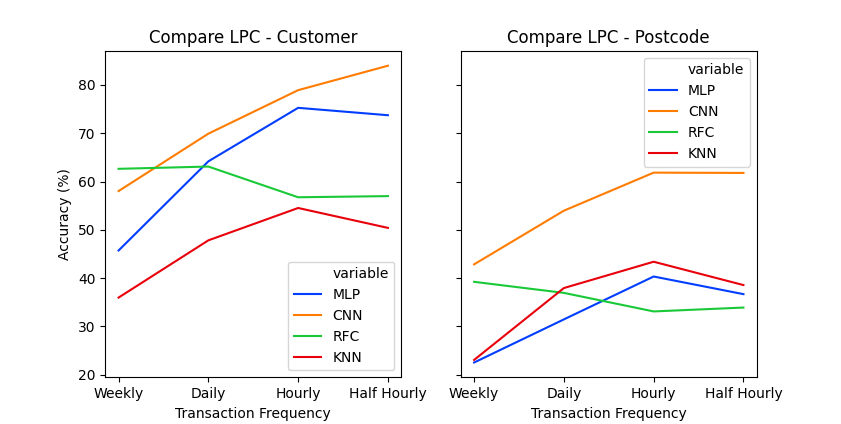
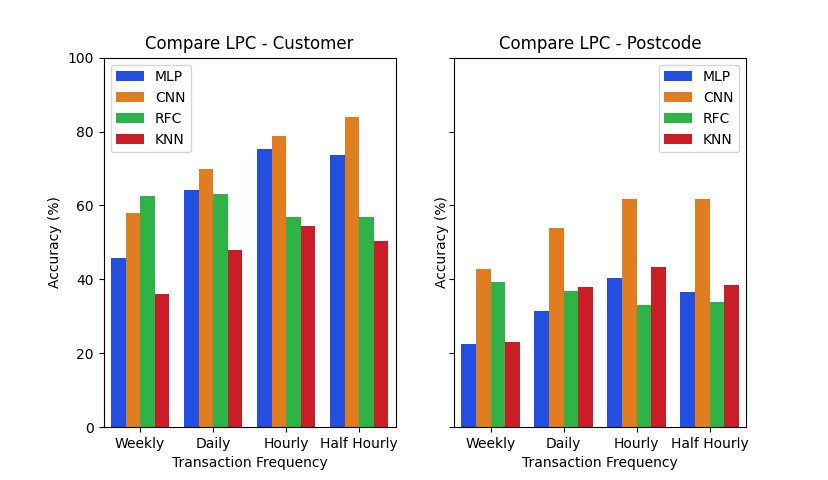
Update graphs to bar charts

Changed region(s): [[0.0604, 0.0613, 0.936, 1.0], [0.5435, 0.1226, 0.5737, 0.1533]]

diff --git a/Code/graphs.py b/Code/graphs.py
@@ -160,15 +160,15 @@ def results():
     # MLP RESULTS
     plot_mlp_cust = pd.DataFrame({
         'cats': x_cats,
-        'MLP ledger/customer': mlp_cust_lpc,
-        'MLP ledger/postcode': mlp_cust_lpp,
-        'MLP one ledger': mlp_cust_aol
+        'MLP LPC': mlp_cust_lpc,
+        'MLP LPP': mlp_cust_lpp,
+        'MLP AOL': mlp_cust_aol
     })
     plot_mlp_post = pd.DataFrame({
         'cats': x_cats,
-        'MLP ledger/customer': mlp_post_lpc,
-        'MLP ledger/postcode': mlp_post_lpp,
-        'MLP one ledger': mlp_post_aol
+        'MLP LPC': mlp_post_lpc,
+        'MLP LPP': mlp_post_lpp,
+        'MLP AOL': mlp_post_aol
     })
     grapher(["Multilayer Percecptron - Customer",
              "Multilayer Percecptron - Postcode"],
@@ -177,15 +177,15 @@ def results():
     # CNN RESULTS
     plot_cnn_cust = pd.DataFrame({
         'cats': x_cats,
-        'CNN ledger/customer': cnn_cust_lpc,
-        'CNN ledger/postcode': cnn_cust_lpp,
-        'CNN one ledger': cnn_cust_aol
+        'CNN LPC': cnn_cust_lpc,
+        'CNN LPP': cnn_cust_lpp,
+        'CNN AOL': cnn_cust_aol
     })
     plot_cnn_post = pd.DataFrame({
         'cats': x_cats,
-        'CNN ledger/customer': cnn_post_lpc,
-        'CNN ledger/postcode': cnn_post_lpp,
-        'CNN one ledger': cnn_post_aol
+        'CNN LPC': cnn_post_lpc,
+        'CNN LPP': cnn_post_lpp,
+        'CNN AOL': cnn_post_aol
     })
     grapher(["Convolutional Neural Network - Customer",
              "Convolutional Neural Network - Postcode"],
@@ -194,15 +194,15 @@ def results():
     # RFC RESULTS
     plot_rfc_cust = pd.DataFrame({
         'cats': x_cats,
-        'RFC ledger/customer': rfc_cust_lpc,
-        'RFC ledger/postcode': rfc_cust_lpp,
-        'RFC one ledger': rfc_cust_aol
+        'RFC LPC': rfc_cust_lpc,
+        'RFC LPP': rfc_cust_lpp,
+        'RFC AOL': rfc_cust_aol
     })
     plot_rfc_post = pd.DataFrame({
         'cats': x_cats,
-        'RFC ledger/customer': rfc_post_lpc,
-        'RFC ledger/postcode': rfc_post_lpp,
-        'RFC one ledger': rfc_post_aol
+        'RFC LPC': rfc_post_lpc,
+        'RFC LPP': rfc_post_lpp,
+        'RFC AOL': rfc_post_aol
     })
     grapher(["Random Forest Classifier - Customer",
             "Random Forest Classifier - Postcode"],
@@ -211,15 +211,15 @@ def results():
     # KNN RESULTS
     plot_knn_cust = pd.DataFrame({
         'cats': x_cats,
-        'KNN ledger/customer': knn_cust_lpc,
-        'KNN ledger/postcode': knn_cust_lpp,
-        'KNN one ledger': knn_cust_aol
+        'KNN LPC': knn_cust_lpc,
+        'KNN LPP': knn_cust_lpp,
+        'KNN AOL': knn_cust_aol
     })
     plot_knn_post = pd.DataFrame({
         'cats': x_cats,
-        'KNN ledger/customer': knn_post_lpc,
-        'KNN ledger/postcode': knn_post_lpp,
-        'KNN one ledger': knn_post_aol
+        'KNN LPC': knn_post_lpc,
+        'KNN LPP': knn_post_lpp,
+        'KNN AOL': knn_post_aol
     })
     grapher(["K-Nearest Neighbours - Customer",
              "K-Nearest Neighbours - Postcode"],
@@ -263,7 +263,7 @@ def results():
              "Compare LPP - Postcode"],
             [plot_comp_cust, plot_comp_post])
 
-    # Compare one ledger results
+    # Compare AOL results
     plot_comp_cust = pd.DataFrame({
         'cats': x_cats,
         'MLP': mlp_cust_aol,
@@ -288,11 +288,11 @@ def grapher(title, data):
 
     for i, line in enumerate(data):
         ax = axes[i]
-        sns.lineplot(x='cats', y='value', hue='variable', palette='bright', sort=False, ax=ax,
-                     data=pd.melt(line, ['cats']), markers=True)
+        sns.barplot(x='cats', y='value', hue='variable', palette='bright', ax=ax, data=pd.melt(line, ['cats']))
         ax.set_title(title[i])
         ax.set_xlabel("Transaction Frequency")
         ax.set_ylabel("Accuracy (%)")
+        ax.set(ylim=(0, 100))
         ax.legend()
 
     plt.show()
@@ -301,7 +301,7 @@ def grapher(title, data):
 if __name__ == '__main__':
     # Check usage
     if not len(sys.argv) == 3:
-        print("Use: python ./s1_graphs.py [visual] [results]")
+        print("Use: python ./graphs.py [visual] [results]")
         print("Use a 1 or 0 indicator for each argument")
         exit()
 
